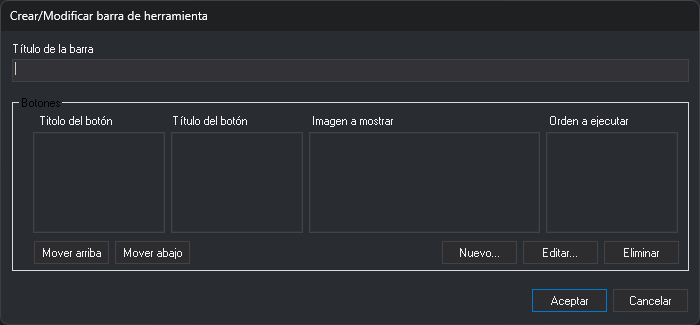
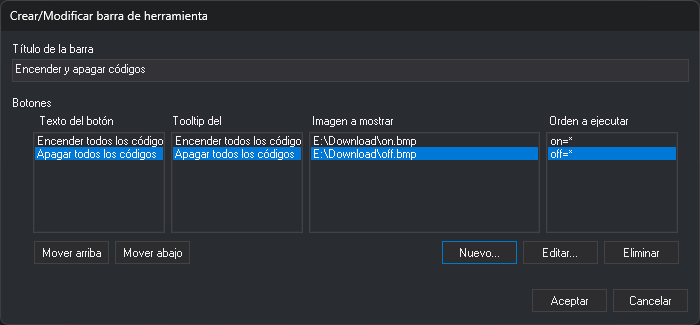
Barras de herramientas de usuario: capturas de Crear/Modificar barra y Datos de boton

diff --git a/src/digi3d-ai/referencia/cuadros-de-dialogo/barras-de-herramientas-de-usuario.md b/src/digi3d-ai/referencia/cuadros-de-dialogo/barras-de-herramientas-de-usuario.md
@@ -32,6 +32,8 @@ Selecciona la opción del menú **Herramientas/Barras de herramientas de usuario
 
 ## Datos de botón de barra de herramientas
 
+![Cuadro de diálogo Datos de botón de barra de herramientas](../../../images/datos-de-boton-de-barra-de-herramientas.png)
+
 * **Texto del botón**: el texto que muestra el botón.
 * **Tooltip del botón**: el texto que aparece al situar el ratón sobre el botón.
 * **Imagen asociada al botón**: el archivo de imagen del botón. **Examinar...** permite seleccionar un archivo de mapa de bits (`.bmp`).
